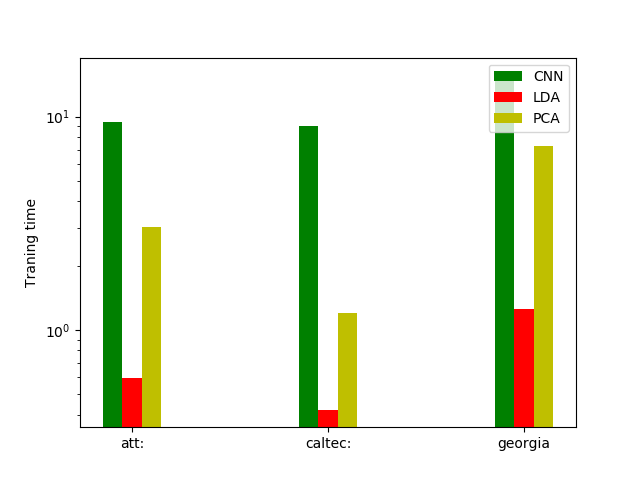
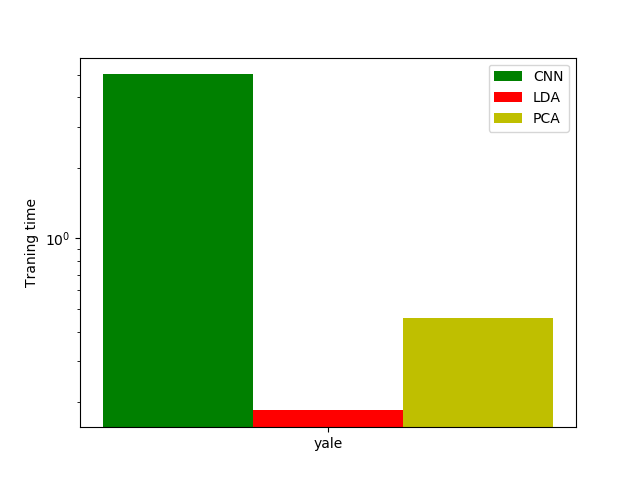
update of docs

diff --git a/doc/report.tex b/doc/report.tex
@@ -141,6 +141,7 @@ $S_{W}$ is defined as:
 
 \begin{equation}
     S_{W} = \sum_{i} A_{i}A_{i}^T
+    \label{eq:SW}
 \end{equation}
 
 where $A_i$ is matrix of all samples $X_i$ from class $i$ reduced by $\mu_i$. $S_W$ is used to describe distance between samples of the chosen class and its mean after projection:
@@ -252,7 +253,7 @@ Analysis of results was performed using Friedman test with Nemenyi post-hoc test
 
 \begin{table*}
     \centering
-    \caption{Comparison of p-values and F-values for ANOVA test for Svc classifier}
+    \caption{Comparison of p-values and F-values for Friedman test for Svc classifier}
     \input{tables/Svm_pvalues.tex}
     \label{table:svm_pvalues}
 \end{table*}
@@ -270,6 +271,9 @@ Analysis of results was performed using Friedman test with Nemenyi post-hoc test
     \input{tables/Svm_fit_time_table.tex}
     \label{table:svm_fit_time_comparison}
 \end{table}
+
+During testing some problems occured. For some dataset with large number of images Python virtual machine run out of memory on machine with 8 Gb RAM. This happend during computing eigenvalues and eigenvectors of $S_W$ matrix (when establishing within variance) while performing LDA for vidtimit dataset. $A_i$ (see equation \ref{eq:SW}) contains only images for $i$-th class. Maximal number of images for one class in vidtimit is 2644. Images are stored using 8 bit uint type. All images are converted to greyscale, so there is one 8 bit unsigned int per pixel. Sckit-learn use SVD implementation from numpy to establish eigenvalues and eigenvectors of $S_W$. In theory memory needed for storage of SVDs decomposition matrixes given all previous asumptions is aproximatly 0.25 Gb, which should not be problem. Numpy utilises Lapack library for SVD computation. Lapack is linear algebra library written in Fortran. There is little known about alorithms used to perform SVD in Lapack, therefore reason of raising MemoryError cannot be established.
+How the problem was solved? T.B.C.
 
 \section{Conclusions}
 

diff --git a/src/main.py b/src/main.py
@@ -12,18 +12,18 @@ classifiersDict = {
 }
 
 dataBaseDict = {
-    'att:': Db("att", 40), #loads normaly
-    'caltec:': Db("croped_caltec", 19), # loads normaly
     #'essex:': Db("essex", 392), # loads normaly, note: on my 8Gb RAM essex causes MemoryError
-    'georgia': Db("georgia", 50), #loads normaly
-    #'jaffe': Db("jaffe", 10), # loads normaly
-    #'mit': Db("mit-cbcl", 29), # loads normaly
-    #'muct': Db("muct", 276), # loads normaly
-    #'specs-on-faces': Db("specs-on-faces", 101), # loads normaly
+    #'vidtimit': Db("vidtimit", 14), # loads normaly, process gets killed, no stacktrace, only "Killed" apears in console, probably due to SIGKILL
+    #'att:': Db("att", 40), #loads normaly, results checked
+    #'caltec:': Db("croped_caltec", 19), # loads normaly, results checked
+    #'georgia': Db("georgia", 50), #loads normaly, results checked
+    #'jaffe': Db("jaffe", 10), # loads normaly, results checked
+    #'mit': Db("mit-cbcl", 29), # loads normaly, results checked
+    #'muct': Db("muct", 276), # loads normaly, results checked
+    #'specs-on-faces': Db("specs-on-faces", 101), # loads normaly, results checked
     #'stirling': Db("stirling", 36), # loads normaly, but getting error: ValueError: n_splits=10 cannot be greater than the number of members in each class.
-    #'umist': Db("umist", 20), # loads normaly
-    #'vidtimit': Db("vidtimit", 14), # loads normaly
-    #'yale': Db("yale", 15), # loads normaly
+    #'umist': Db("umist", 20), # loads normaly, results checked
+    'yale': Db("yale", 15), # loads normaly, results checked
 }
 
 if __name__ == "__main__":

diff --git a/src/postprocessing/processResults.py b/src/postprocessing/processResults.py
@@ -38,6 +38,7 @@ class ProcessResults:
         self.saveTable.saveTable(results, self.fitTimeSelector, classifierName+"_fit_time_table")
 
         self.doStatisticalAnalysis(results, classifierName)
+        self.saveResults(results, classifierName+"_results")
 
 
     def avrgTestScoreSelector(self, scores):
@@ -91,7 +92,7 @@ class ProcessResults:
         statistic, pvalue, posthoc = self.statistical.testHypothesis(errorTables)
 
         self.saveTableWithPvalue(statistic, pvalue, classifierName+"_pvalues")
-        self.savePostHocResults(posthoc, classifierName+"_postHoc")
+        self.saveResults(posthoc, classifierName+"_postHoc")
 
 
     def saveTableWithPvalue(self, statistic, pvalue, fileName):
@@ -103,10 +104,10 @@ class ProcessResults:
         self.saveTable.saveTexTable(tableToSave, fileName)
 
 
-    def savePostHocResults(self, postHoc, fileName):
+    def saveResults(self, results, fileName):
         path = "../doc/tables/" + fileName + ".txt"
         f = open(path, 'w')
-        f.write(str(postHoc))
+        f.write(str(results))
         f.close()
 
 

diff --git a/doc/tables/Svm_fit_time_table.tex b/doc/tables/Svm_fit_time_table.tex
@@ -2,10 +2,6 @@
   \hline
     & CNN & LDA & PCA \\
   \hline
-  att: & 9.49 & 0.59 & 3.05 \\
-  \hline
-  caltec: & 9.02 & 0.42 & 1.20 \\
-  \hline
-  georgia & 15.79 & 1.25 & 7.27 \\
+  yale & 5.01 & 0.18 & 0.46 \\
   \hline
 \end{tabular}

diff --git a/doc/tables/Svm_acc_table.tex b/doc/tables/Svm_acc_table.tex
@@ -2,10 +2,6 @@
   \hline
     & CNN & LDA & PCA \\
   \hline
-  att: & 0.98 & 0.97 & 0.55 \\
-  \hline
-  caltec: & 0.99 & 0.99 & 0.94 \\
-  \hline
-  georgia & 0.86 & 0.70 & 0.10 \\
+  yale & 0.93 & 0.93 & 0.97 \\
   \hline
 \end{tabular}

diff --git a/doc/tables/Svm_pvalues.tex b/doc/tables/Svm_pvalues.tex
@@ -2,8 +2,8 @@
   \hline
     & values \\
   \hline
-  p-value & 1.299581e-24 \\
+  p-value & 3.678794e-01 \\
   \hline
-  value of statistic F & 110.00 \\
+  value of statistic F & 2.00 \\
   \hline
 \end{tabular}
